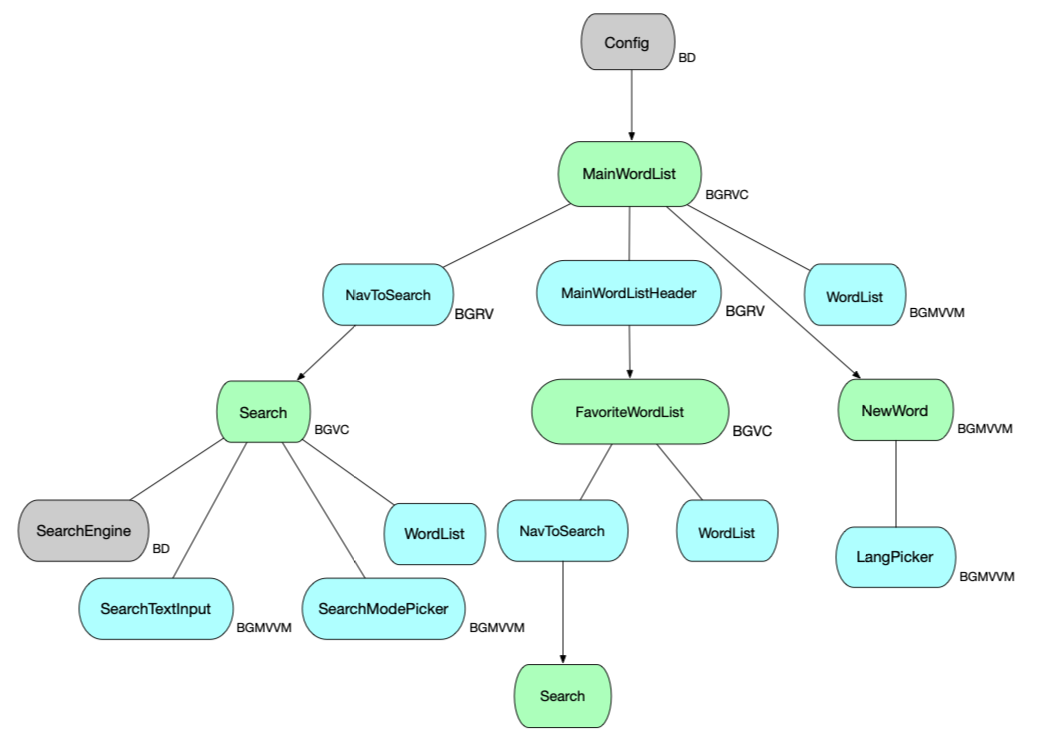
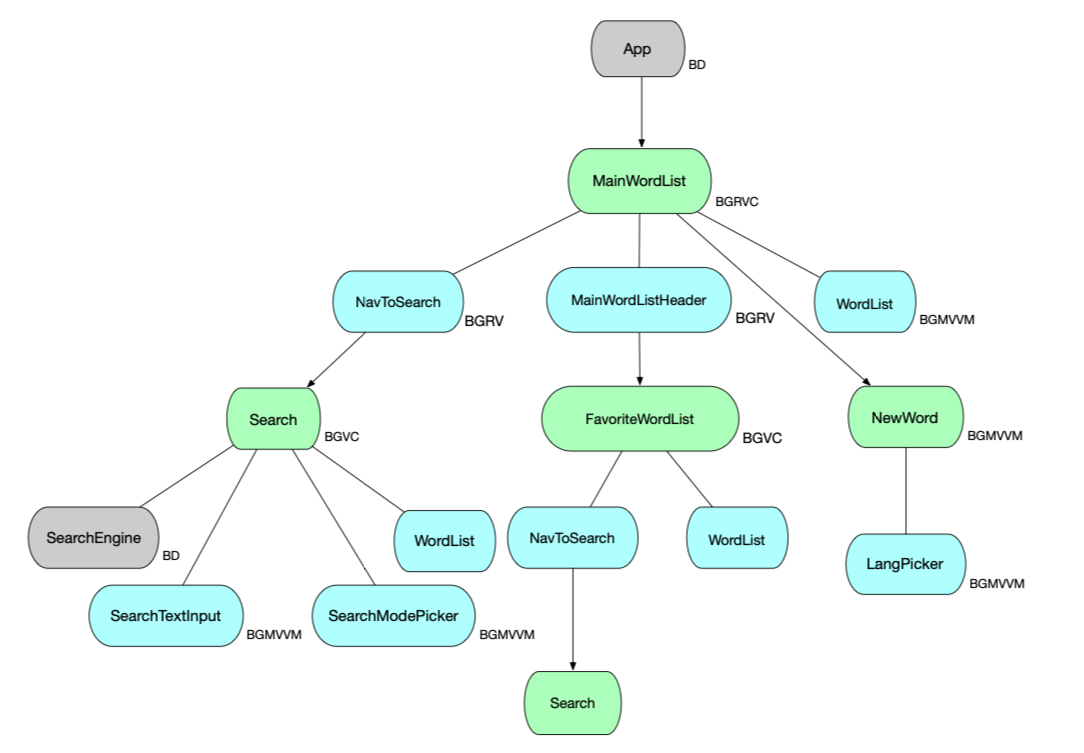
[TZ-10]: New Features refactored.

diff --git a/AppModules/PersonalDictionary/Source/UIFeature/FullScreen/MainWordList/Builder/MainWordListBuilderImpl.swift b/AppModules/PersonalDictionary/Source/UIFeature/FullScreen/MainWordList/Builder/MainWordListBuilderImpl.swift
@@ -8,8 +8,20 @@
 import CoreModule
 import UIKit
 
+/// Общий протокол из базовых зависимостей в приложении.
+protocol BaseDependency {
+
+    var navigationController: UINavigationController { get }
+
+    var appConfig: Config { get }
+
+    var logger: Logger { get }
+
+    var wordListRepository: WordListRepository { get }
+}
+
 /// Реализация билдера фичи "Главный (основной) список слов" Личного словаря.
-final class MainWordListBuilderImpl: MainWordListBuilder {
+final class MainWordListBuilderImpl: MainWordListBuilder, BaseDependency {
 
     private lazy var bundle = Bundle(for: type(of: self))
 
@@ -19,6 +31,15 @@ final class MainWordListBuilderImpl: MainWordListBuilder {
 
     var logger: Logger {
         LoggerImpl(isLoggingEnabled: appConfig.isLoggingEnabled)
+    }
+
+    var wordListRepository: WordListRepository {
+        CoreWordListRepository(
+            args: CoreWordListRepositoryArgs(bundle: bundle,
+                                             persistentContainerName: "StorageModel"),
+            langRepository: langRepository,
+            logger: logger
+        )
     }
 
     private(set) lazy var langRepository: LangRepository = LangRepositoryImpl(userDefaults: UserDefaults.standard,
@@ -38,12 +59,12 @@ final class MainWordListBuilderImpl: MainWordListBuilder {
         MainWordListGraphImpl(
             viewParams: createViewParams(),
             navigationController: navigationController,
-            navToSearchBuilder: NavToSearchBuilderImpl(width: .full, externals: self),
-            headerBuilder: MainWordListHeaderBuilderImpl(externals: self),
+            navToSearchBuilder: NavToSearchBuilderImpl(width: .full, dependency: self),
+            headerBuilder: MainWordListHeaderBuilderImpl(dependency: self),
             wordListBuilder: WordListBuilderImpl(params: WordListParams(shouldAnimateWhenAppear: true),
-                                                 externals: self),
-            wordListFetcher: createWordListRepository(),
-            newWordBuilder: NewWordBuilderImpl(externals: self),
+                                                 dependency: self),
+            wordListFetcher: wordListRepository,
+            newWordBuilder: NewWordBuilderImpl(dependency: self),
             coreRouter: appConfig.appParams.coreRouter
         )
     }
@@ -55,35 +76,21 @@ final class MainWordListBuilderImpl: MainWordListBuilder {
             visibleItemMaxCount: Int(ceil(UIScreen.main.bounds.height / WordItemCell.height))
         )
     }
-
-    private func createWordListRepository() -> WordListRepository {
-        CoreWordListRepository(
-            args: CoreWordListRepositoryArgs(bundle: bundle,
-                                             persistentContainerName: "StorageModel"),
-            langRepository: langRepository,
-            logger: logger
-        )
-    }
 }
 
 /// Для передачи внешних зависимостей в фичу "Список слов".
-extension MainWordListBuilderImpl: WordListExternals {
+extension MainWordListBuilderImpl: WordListDependency {
 
     var cudOperations: WordItemCUDOperations {
-        createWordListRepository()
+        wordListRepository
     }
 }
 
 /// Для передачи внешних зависимостей в фичу "Навигация на экран Поиска".
-extension MainWordListBuilderImpl: NavToSearchExternals {
-
-    var wordListRepository: WordListRepository {
-        createWordListRepository()
-    }
-}
+extension MainWordListBuilderImpl: NavToSearchDependency { }
 
 /// Для передачи внешних зависимостей в фичу "Добавление нового слова" в Личный словарь.
-extension MainWordListBuilderImpl: NewWordExternals { }
+extension MainWordListBuilderImpl: NewWordDependency { }
 
 /// Для передачи внешних зависимостей в фичу "Заголовок главного списка слов" Личного словаря.
-extension MainWordListBuilderImpl: MainWordListHeaderExternals { }
+extension MainWordListBuilderImpl: MainWordListHeaderDependency { }

diff --git a/AppModules/PersonalDictionary/Source/UIFeature/FullScreen/FavoriteWordList/Builder/FavoriteWordListBuilderImpl.swift b/AppModules/PersonalDictionary/Source/UIFeature/FullScreen/FavoriteWordList/Builder/FavoriteWordListBuilderImpl.swift
@@ -8,16 +8,7 @@
 import CoreModule
 
 /// Внешние зависимости фичи "Экран списка избранных слов".
-protocol FavoriteWordListExternals {
-
-    var navigationController: UINavigationController { get }
-
-    var appConfig: Config { get }
-
-    var logger: Logger { get }
-
-    var wordListRepository: WordListRepository { get }
-}
+protocol FavoriteWordListDependency: BaseDependency { }
 
 /// Реализация билдера фичи "Экран списка избранных слов".
 final class FavoriteWordListBuilderImpl: FavoriteWordListBuilder {
@@ -30,20 +21,20 @@ final class FavoriteWordListBuilderImpl: FavoriteWordListBuilder {
 
     let wordListRepository: WordListRepository
 
-    init(externals: FavoriteWordListExternals) {
-        self.navigationController = externals.navigationController
-        self.appConfig = externals.appConfig
-        self.logger = externals.logger
-        self.wordListRepository = externals.wordListRepository
+    init(dependency: FavoriteWordListDependency) {
+        self.navigationController = dependency.navigationController
+        self.appConfig = dependency.appConfig
+        self.logger = dependency.logger
+        self.wordListRepository = dependency.wordListRepository
     }
 
     /// Создать экран.
     /// - Returns:
     ///  - View controller экрана.
     func build() -> UIViewController {
-        let navToSearchBuilder = NavToSearchBuilderImpl(width: .smaller, externals: self)
+        let navToSearchBuilder = NavToSearchBuilderImpl(width: .smaller, dependency: self)
         let wordListBuilder = WordListBuilderImpl(params: WordListParams(shouldAnimateWhenAppear: false),
-                                                  externals: self)
+                                                  dependency: self)
 
         return FavoriteWordListViewController(
             params: createViewParams(),
@@ -69,7 +60,7 @@ final class FavoriteWordListBuilderImpl: FavoriteWordListBuilder {
 }
 
 /// Для передачи внешних зависимостей в фичу "Список слов"
-extension FavoriteWordListBuilderImpl: WordListExternals {
+extension FavoriteWordListBuilderImpl: WordListDependency {
 
     var cudOperations: WordItemCUDOperations {
         wordListRepository
@@ -77,4 +68,4 @@ extension FavoriteWordListBuilderImpl: WordListExternals {
 }
 
 /// Для передачи внешних зависимостей в фичу "Навигация на экран Поиска"
-extension FavoriteWordListBuilderImpl: NavToSearchExternals { }
+extension FavoriteWordListBuilderImpl: NavToSearchDependency { }

diff --git a/AppModules/PersonalDictionary/Source/UIFeature/PartScreen/MainWordListHeader/Builder/MainWordListHeaderBuilderImpl.swift b/AppModules/PersonalDictionary/Source/UIFeature/PartScreen/MainWordListHeader/Builder/MainWordListHeaderBuilderImpl.swift
@@ -9,16 +9,7 @@ import CoreModule
 import UIKit
 
 /// Внешние зависимости фичи "Заголовок Главного списка слов".
-protocol MainWordListHeaderExternals {
-
-    var navigationController: UINavigationController { get }
-
-    var appConfig: Config { get }
-
-    var logger: Logger { get }
-
-    var wordListRepository: WordListRepository { get }
-}
+protocol MainWordListHeaderDependency: BaseDependency { }
 
 /// Реализация билдера фичи "Заголовок Главного списка слов".
 final class MainWordListHeaderBuilderImpl: MainWordListHeaderBuilder {
@@ -33,18 +24,18 @@ final class MainWordListHeaderBuilderImpl: MainWordListHeaderBuilder {
 
     /// Инициализатор.
     /// - Parameters:
-    ///  - externals: внешние зависимости фичи.
-    init(externals: MainWordListHeaderExternals) {
-        self.navigationController = externals.navigationController
-        self.appConfig = externals.appConfig
-        self.logger = externals.logger
-        self.wordListRepository = externals.wordListRepository
+    ///  - dependency: внешние зависимости фичи.
+    init(dependency: MainWordListHeaderDependency) {
+        self.navigationController = dependency.navigationController
+        self.appConfig = dependency.appConfig
+        self.logger = dependency.logger
+        self.wordListRepository = dependency.wordListRepository
     }
 
     /// Создать фичу.
     /// - Returns: представление фичи.
     func build() -> UIView {
-        let favoriteWordListBuilder = FavoriteWordListBuilderImpl(externals: self)
+        let favoriteWordListBuilder = FavoriteWordListBuilderImpl(dependency: self)
         let router = RoutingToFavoriteWordListImpl(
             navigationController: navigationController,
             favoriteWordListBuilder: favoriteWordListBuilder
@@ -62,4 +53,4 @@ final class MainWordListHeaderBuilderImpl: MainWordListHeaderBuilder {
 }
 
 /// Для передачи зависимостей во вложенную фичу "Экран списка избранных слов Личного словаря".
-extension MainWordListHeaderBuilderImpl: FavoriteWordListExternals { }
+extension MainWordListHeaderBuilderImpl: FavoriteWordListDependency { }

diff --git a/AppModules/PersonalDictionary/Source/UIFeature/PartScreen/NavToSearch/Builder/NavToSearchBuilderImpl.swift b/AppModules/PersonalDictionary/Source/UIFeature/PartScreen/NavToSearch/Builder/NavToSearchBuilderImpl.swift
@@ -15,16 +15,7 @@ enum NavToSearchWidth {
 }
 
 /// Внешние зависимости фичи "Навигация на экран Поиска".
-protocol NavToSearchExternals {
-
-    var navigationController: UINavigationController { get }
-
-    var appConfig: Config { get }
-
-    var logger: Logger { get }
-
-    var wordListRepository: WordListRepository { get }
-}
+protocol NavToSearchDependency: BaseDependency { }
 
 /// Реализация билдера фичи "Навигация на экран Поиска".
 final class NavToSearchBuilderImpl: NavToSearchBuilder {
@@ -42,20 +33,20 @@ final class NavToSearchBuilderImpl: NavToSearchBuilder {
     /// Инициализатор.
     /// - Parameters:
     ///  - width: параметр ширины представления.
-    ///  - externals: внешние зависимости фичи .
+    ///  - dependency: внешние зависимости фичи .
     init(width: NavToSearchWidth,
-         externals: NavToSearchExternals) {
+         dependency: NavToSearchDependency) {
         self.width = width
-        self.navigationController = externals.navigationController
-        self.appConfig = externals.appConfig
-        self.logger = externals.logger
-        self.wordListRepository = externals.wordListRepository
+        self.navigationController = dependency.navigationController
+        self.appConfig = dependency.appConfig
+        self.logger = dependency.logger
+        self.wordListRepository = dependency.wordListRepository
     }
 
     /// Создать фичу.
     /// - Returns: представление фичи.
     func build() -> UIView {
-        let searchBuilder = SearchBuilderImpl(externals: self)
+        let searchBuilder = SearchBuilderImpl(dependency: self)
         let router = NavToSearchRouterImpl(navigationController: navigationController,
                                            searchBuilder: searchBuilder)
         let view = NavToSearchView(width: width, router: router)
@@ -65,4 +56,4 @@ final class NavToSearchBuilderImpl: NavToSearchBuilder {
 }
 
 /// Для передачи внешних зависимостей в фичу "Поиск по словам Личного словаря".
-extension NavToSearchBuilderImpl: SearchExternals { }
+extension NavToSearchBuilderImpl: SearchDependency { }

diff --git a/AppModules/PersonalDictionary/Source/UIFeature/PartScreen/WordList/Builder/WordListBuilderImpl.swift b/AppModules/PersonalDictionary/Source/UIFeature/PartScreen/WordList/Builder/WordListBuilderImpl.swift
@@ -15,7 +15,7 @@ struct WordListParams {
 }
 
 /// Внешние зависимости фичи "Список слов".
-protocol WordListExternals {
+protocol WordListDependency {
 
     /// Конфигурация приложения.
     var appConfig: Config { get }
@@ -31,16 +31,16 @@ protocol WordListExternals {
 final class WordListBuilderImpl: WordListBuilder {
 
     private let params: WordListParams
-    private let externals: WordListExternals
+    private let dependency: WordListDependency
 
     /// Инициализатор.
     /// - Parameters:
     ///  - params: параметры списка слов.
-    ///  - externals: внешние зависимости.
+    ///  - dependency: внешние зависимости.
     init(params: WordListParams,
-         externals: WordListExternals) {
+         dependency: WordListDependency) {
         self.params = params
-        self.externals = externals
+        self.dependency = dependency
     }
 
     /// Создать MVVM-граф фичи
@@ -48,7 +48,7 @@ final class WordListBuilderImpl: WordListBuilder {
     ///  - MVVM-граф фичи.
     func build() -> WordListMVVM {
         WordListMVVMImpl(
-            cudOperations: externals.cudOperations,
+            cudOperations: dependency.cudOperations,
             translationService: createTranslationService(),
             wordItemStream: WordItemStreamImpl.instance,
             viewParams: createWordListViewParams()
@@ -78,10 +78,10 @@ final class WordListBuilderImpl: WordListBuilder {
         PonsTranslationService(
             apiData: PonsApiData(url: "https://api.pons.com/v1/dictionary",
                                  secretHeaderKey: "X-Secret",
-                                 secret: externals.appConfig.ponsApiSecret),
+                                 secret: dependency.appConfig.ponsApiSecret),
             httpClient: HttpClientImpl(sessionConfiguration: URLSessionConfiguration.default),
             jsonCoder: JSONCoderImpl(),
-            logger: externals.logger
+            logger: dependency.logger
         )
     }
 }

diff --git a/AppModules/PersonalDictionary/Source/UIFeature/FullScreen/Search/Builder/SearchBuilderImpl.swift b/AppModules/PersonalDictionary/Source/UIFeature/FullScreen/Search/Builder/SearchBuilderImpl.swift
@@ -8,7 +8,7 @@
 import CoreModule
 
 /// Внешние зависимости фичи "Поиска".
-protocol SearchExternals {
+protocol SearchDependency {
 
     var appConfig: Config { get }
 
@@ -28,11 +28,11 @@ final class SearchBuilderImpl: SearchBuilder {
 
     /// Инициализатор.
     /// - Parameters:
-    ///  - externals: внешние зависимости фичи.
-    init(externals: SearchExternals) {
-        appConfig = externals.appConfig
-        logger = externals.logger
-        wordListRepository = externals.wordListRepository
+    ///  - dependency: внешние зависимости фичи.
+    init(dependency: SearchDependency) {
+        appConfig = dependency.appConfig
+        logger = dependency.logger
+        wordListRepository = dependency.wordListRepository
     }
 
     /// Создать экран Поиска.
@@ -45,7 +45,7 @@ final class SearchBuilderImpl: SearchBuilder {
             searchEngineBuilder: SearchEngineBuilderImpl(wordListFetcher: wordListRepository),
             wordListBuilder: WordListBuilderImpl(
                 params: WordListParams(shouldAnimateWhenAppear: false),
-                externals: self
+                dependency: self
             ),
             searchModePickerBuilder: SearchModePickerBuilderImpl()
         )
@@ -63,7 +63,7 @@ final class SearchBuilderImpl: SearchBuilder {
 }
 
 /// Для передачи внешних зависимостей во вложенную фичу "Список слов".
-extension SearchBuilderImpl: WordListExternals {
+extension SearchBuilderImpl: WordListDependency {
 
     var cudOperations: WordItemCUDOperations {
         wordListRepository

diff --git a/AppModules/PersonalDictionary/Source/UIFeature/FullScreen/NewWord/Builder/NewWordBuilderImpl.swift b/AppModules/PersonalDictionary/Source/UIFeature/FullScreen/NewWord/Builder/NewWordBuilderImpl.swift
@@ -6,7 +6,7 @@
 //
 
 /// Внешние зависимости фичи "Добавление нового слова" в личный словарь.
-protocol NewWordExternals {
+protocol NewWordDependency {
 
     /// Хранилище с данными о языках в приложении.
     var langRepository: LangRepository { get }
@@ -19,9 +19,9 @@ final class NewWordBuilderImpl: NewWordBuilder {
 
     /// Инициализатор.
     /// - Parameters:
-    ///  - externals: внешние зависимости фичи.
-    init(externals: NewWordExternals) {
-        langRepository = externals.langRepository
+    ///  - dependency: внешние зависимости фичи.
+    init(dependency: NewWordDependency) {
+        langRepository = dependency.langRepository
     }
 
     /// Создать MVVM-граф фичи
